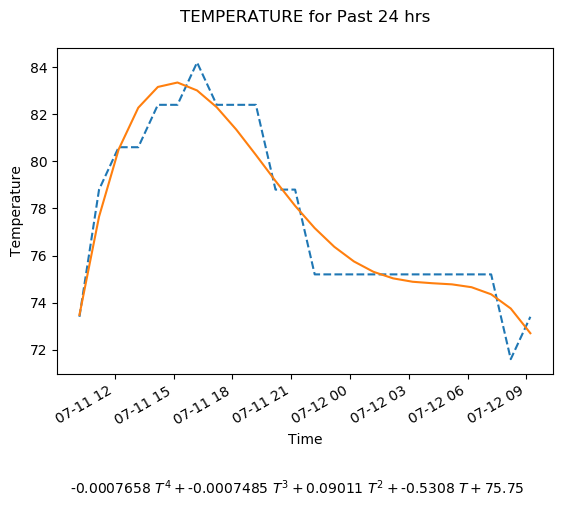
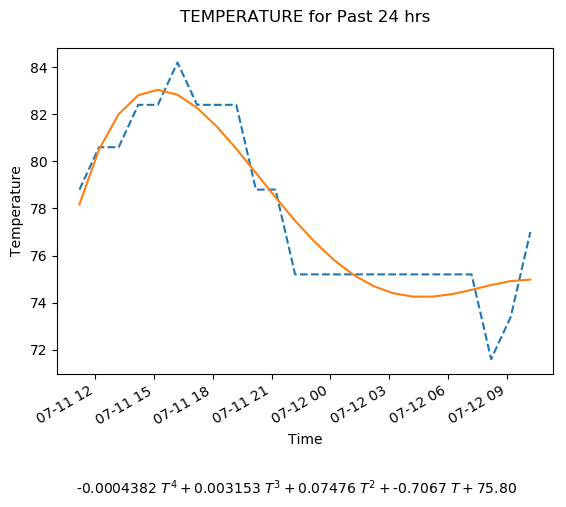
ff

diff --git a/NET/weather.html b/NET/weather.html
@@ -79,14 +79,14 @@ if (i<10)
 <h1><em><font color="darkblue">Weather at Carbondale</font></em></h1>
 <div id="txt"></div>
 <center class="big">Temperature: 
-73.4 
+77.0 
 °
 </center>
 <table><tr>
 <td align="left" class="x">
-<i>Current Weather: </i><img height="0" width="50"><b>Overcast</b>
+<i>Current Weather: </i><img height="0" width="50"><b>Mostly Cloudy</b>
 </td>
-<td><img src="WeathIcons/ovc.jpg"></td>
+<td><img src="WeathIcons/"></td>
 </tr></table>
 <table style="margin-left: auto;margin-top: 5%;margin-right:auto">
 <tr>
@@ -94,21 +94,21 @@ if (i<10)
 <tr><td align="left" class="big">Date: 
 &#160;Jul 12</td></tr>
 <tr><td align="left" class="big">Time: 
-&#160;09:08:02</td></tr>
+&#160;10:08:02</td></tr>
 <tr><td align="left" class="big">Wind: 
-&#160;North at 6.9 MPH (6 KT)</td></tr>
+&#160;North at 8.1 MPH (7 KT)</td></tr>
 <tr><td align="left" class="big">Visibility: 
 &#160;</td></tr>
 <tr><td align="left" class="big">Temperature: 
-&#160;73.4 F.</td></tr>
+&#160;77.0 F.</td></tr>
 <tr><td align="left" class="big">Dewpoint: 
 &#160;71.6 F.</td></tr>
 <tr><td align="left" class="big">Relative Humidity: 
-&#160;94%</td></tr>
+&#160;83%</td></tr>
 <tr><td align="left" class="big">Pressure: 
-&#160;30.09 inches</td></tr>
+&#160;30.11 inches</td></tr>
 <tr><td align="left" class="big">Heat Index: 
-&#160;</td></tr>
+&#160;78</td></tr>
 <tr><td align="left" class="big">Wind Chill: 
 &#160;</td></tr>
 <tr><td align="left" class="big">Sunrise: 
@@ -119,10 +119,10 @@ if (i<10)
 <td align="left" class="big">
 <b>Twenty-Four Hour Summary</b><p></p>
 <dl>
-<dt align="center">Temperature: μ = 77.67, 
-σ = 3.59</dt>
+<dt align="center">Temperature: μ = 77.82, 
+σ = 3.48</dt>
 <p></p>
-<dt align="center">Pressure: μ = 29.99,
+<dt align="center">Pressure: μ = 30,
 σ = 0.03</dt>
 </dl>
 </td>

diff --git a/NET/DewPoint.html b/NET/DewPoint.html
@@ -39,7 +39,7 @@ black;width:35%;margin-left:auto;margin-right:auto;margin-bottom:5em
 
 <h2>Current</h2>
 
-<div id='c'><strong>Temp</strong> 73.4 F. <strong>Dew Point</strong> 71.6 F.</div>
+<div id='c'><strong>Temp</strong> 77.0 F. <strong>Dew Point</strong> 71.6 F.</div>
 
 
 <p><p/><br/><p/></p>
@@ -4431,6 +4431,11 @@ black;width:35%;margin-left:auto;margin-right:auto;margin-bottom:5em
 <tr>
 <td style="text-align:center;"> Sun Jul 12 09:08:05 2026 </td>
 <td style="text-align:center;"> 73.4 F. </td>
+<td style="text-align:center;"> 71.6 F.</td>
+</tr>
+<tr>
+<td style="text-align:center;"> Sun Jul 12 10:08:05 2026 </td>
+<td style="text-align:center;"> 77.0 F. </td>
 <td style="text-align:center;"> 71.6 F.</td>
 </tr>
 </tbody>

diff --git a/WeatherNotes/fcast.html b/WeatherNotes/fcast.html
@@ -29,7 +29,7 @@
    <p>
       <div style="font-size:120%">
          <h3>Today</h3>A slight chance of showers and thunderstorms after 3pm. Mostly sunny. High near 84, with temperatures falling to around 82
-         in the afternoon. North northeast wind around 9 mph. Chance of precipitation is 20%.<br></div>
+         in the afternoon. North northeast wind 5 to 9 mph. Chance of precipitation is 20%.<br></div>
    </p>
    <p>
       <div style="font-size:120%">

diff --git a/NET/DewPoint.md b/NET/DewPoint.md
@@ -25,7 +25,7 @@ black;width:35%;margin-left:auto;margin-right:auto;margin-bottom:5em
 <p/><br/><p/>
 
 ## Current
-<div id='c'><strong>Temp</strong> 73.4 F. <strong>Dew Point</strong> 71.6 F.</div>
+<div id='c'><strong>Temp</strong> 77.0 F. <strong>Dew Point</strong> 71.6 F.</div>
 
 <p/><br/><p/>
 
@@ -911,3 +911,4 @@ black;width:35%;margin-left:auto;margin-right:auto;margin-bottom:5em
 | Sun Jul 12 07:08:05 2026 | 75.2 F. | 73.4 F.|
 | Sun Jul 12 08:08:04 2026 | 71.6 F. | 71.6 F.|
 | Sun Jul 12 09:08:05 2026 | 73.4 F. | 71.6 F.|
+| Sun Jul 12 10:08:05 2026 | 77.0 F. | 71.6 F.|

diff --git a/WeatherNotes/fcast.md b/WeatherNotes/fcast.md
@@ -3,7 +3,7 @@
    <p>
       <div style="font-size:120%">
          <h3>Today</h3>A slight chance of showers and thunderstorms after 3pm. Mostly sunny. High near 84, with temperatures falling to around 82
-         in the afternoon. North northeast wind around 9 mph. Chance of precipitation is 20%.<br></div>
+         in the afternoon. North northeast wind 5 to 9 mph. Chance of precipitation is 20%.<br></div>
    </p>
    <p>
       <div style="font-size:120%">